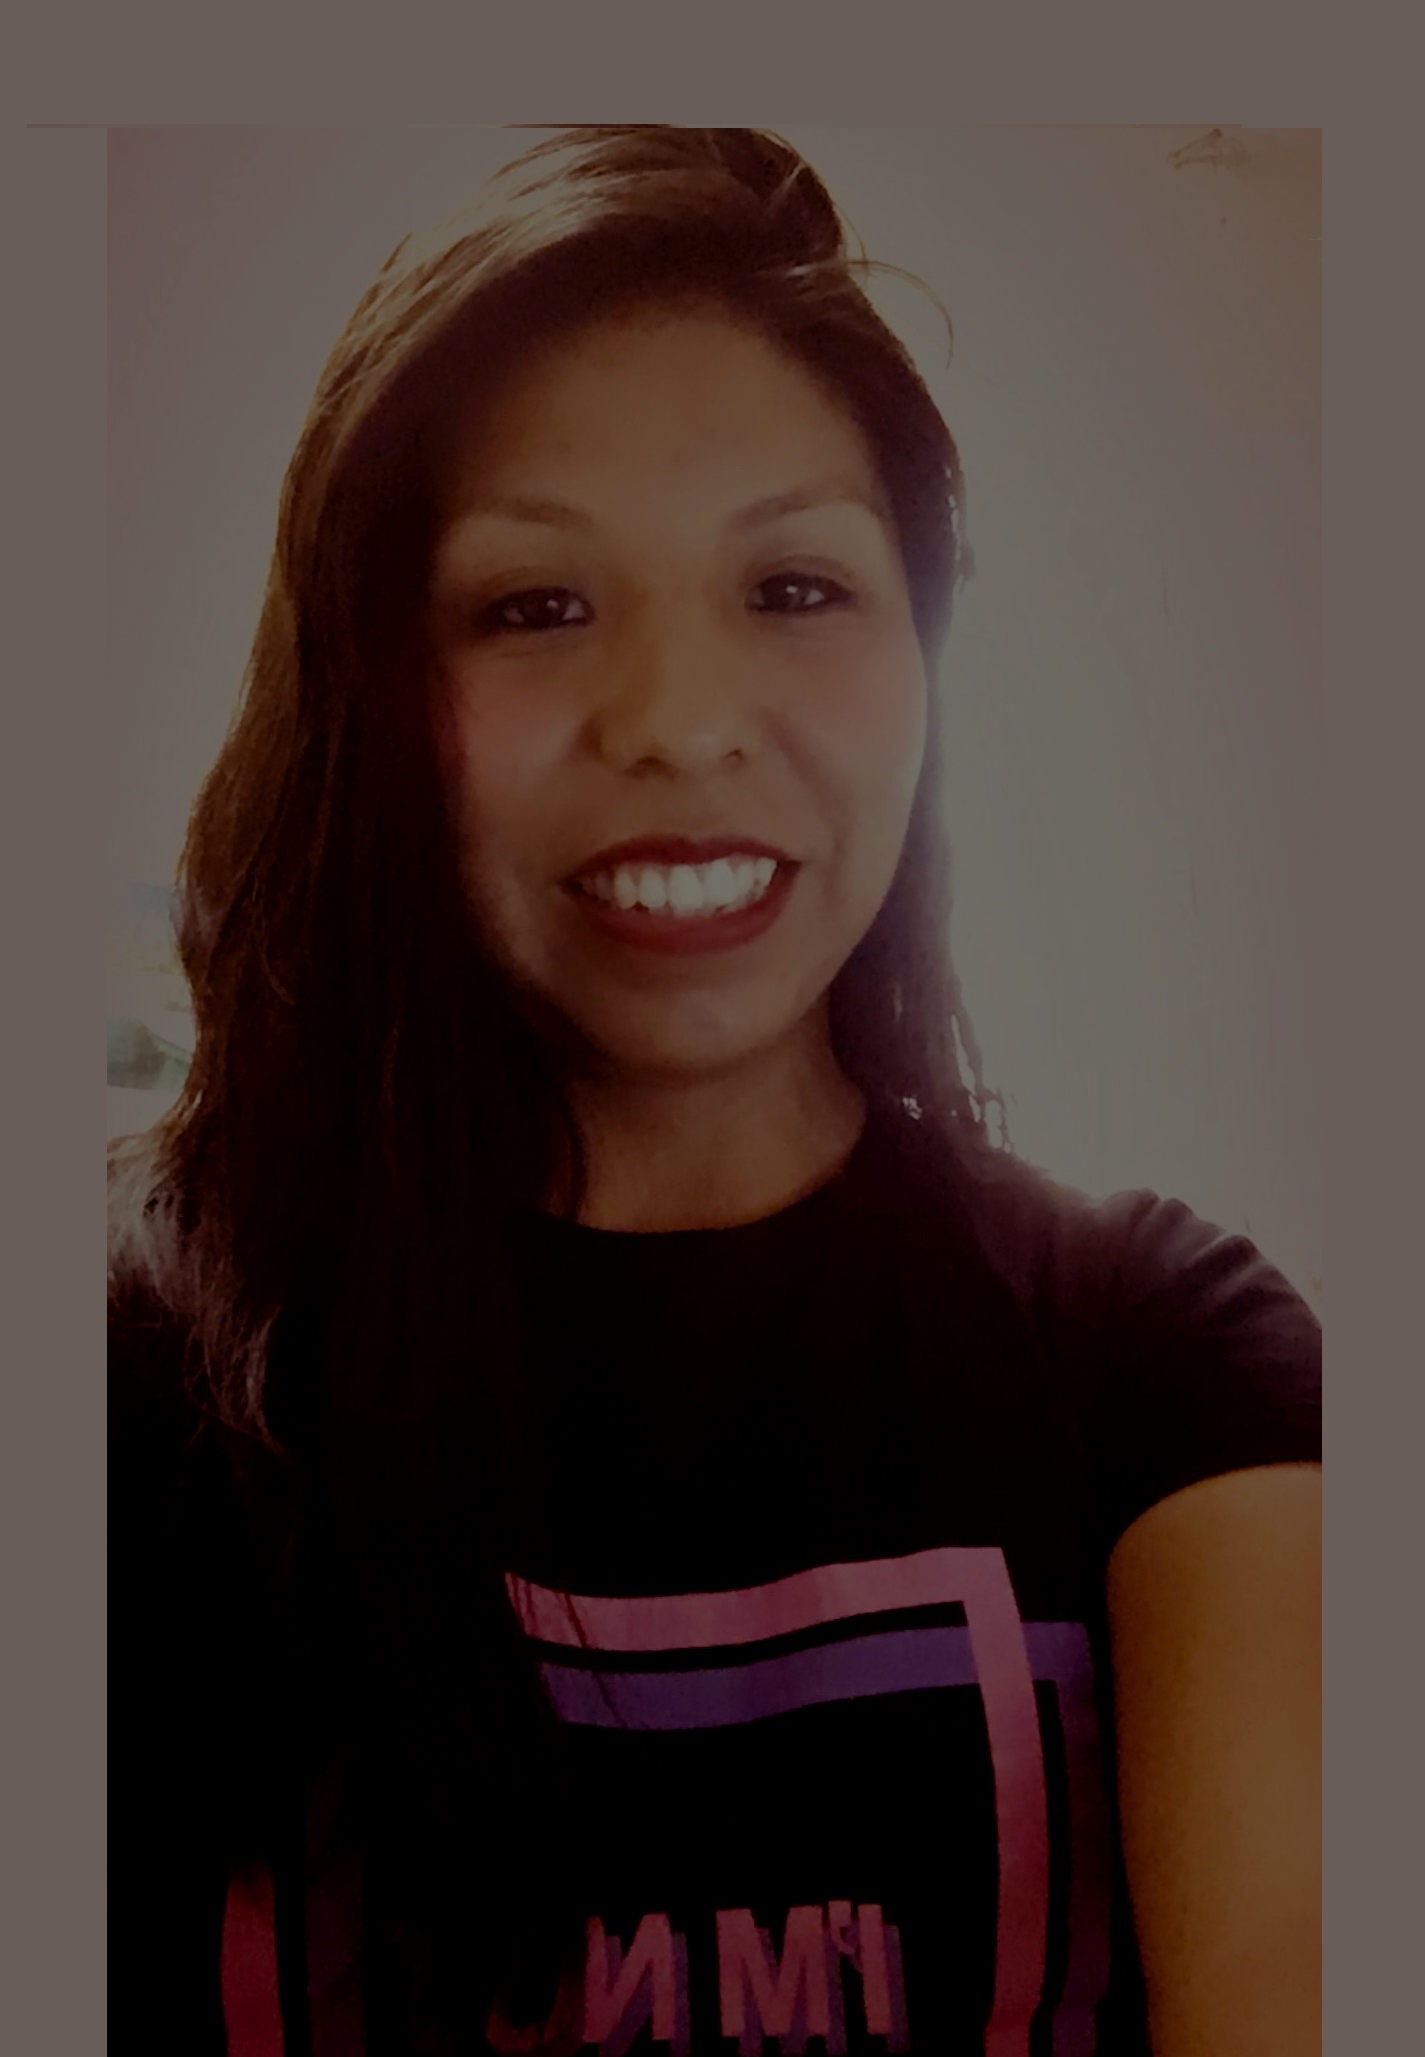
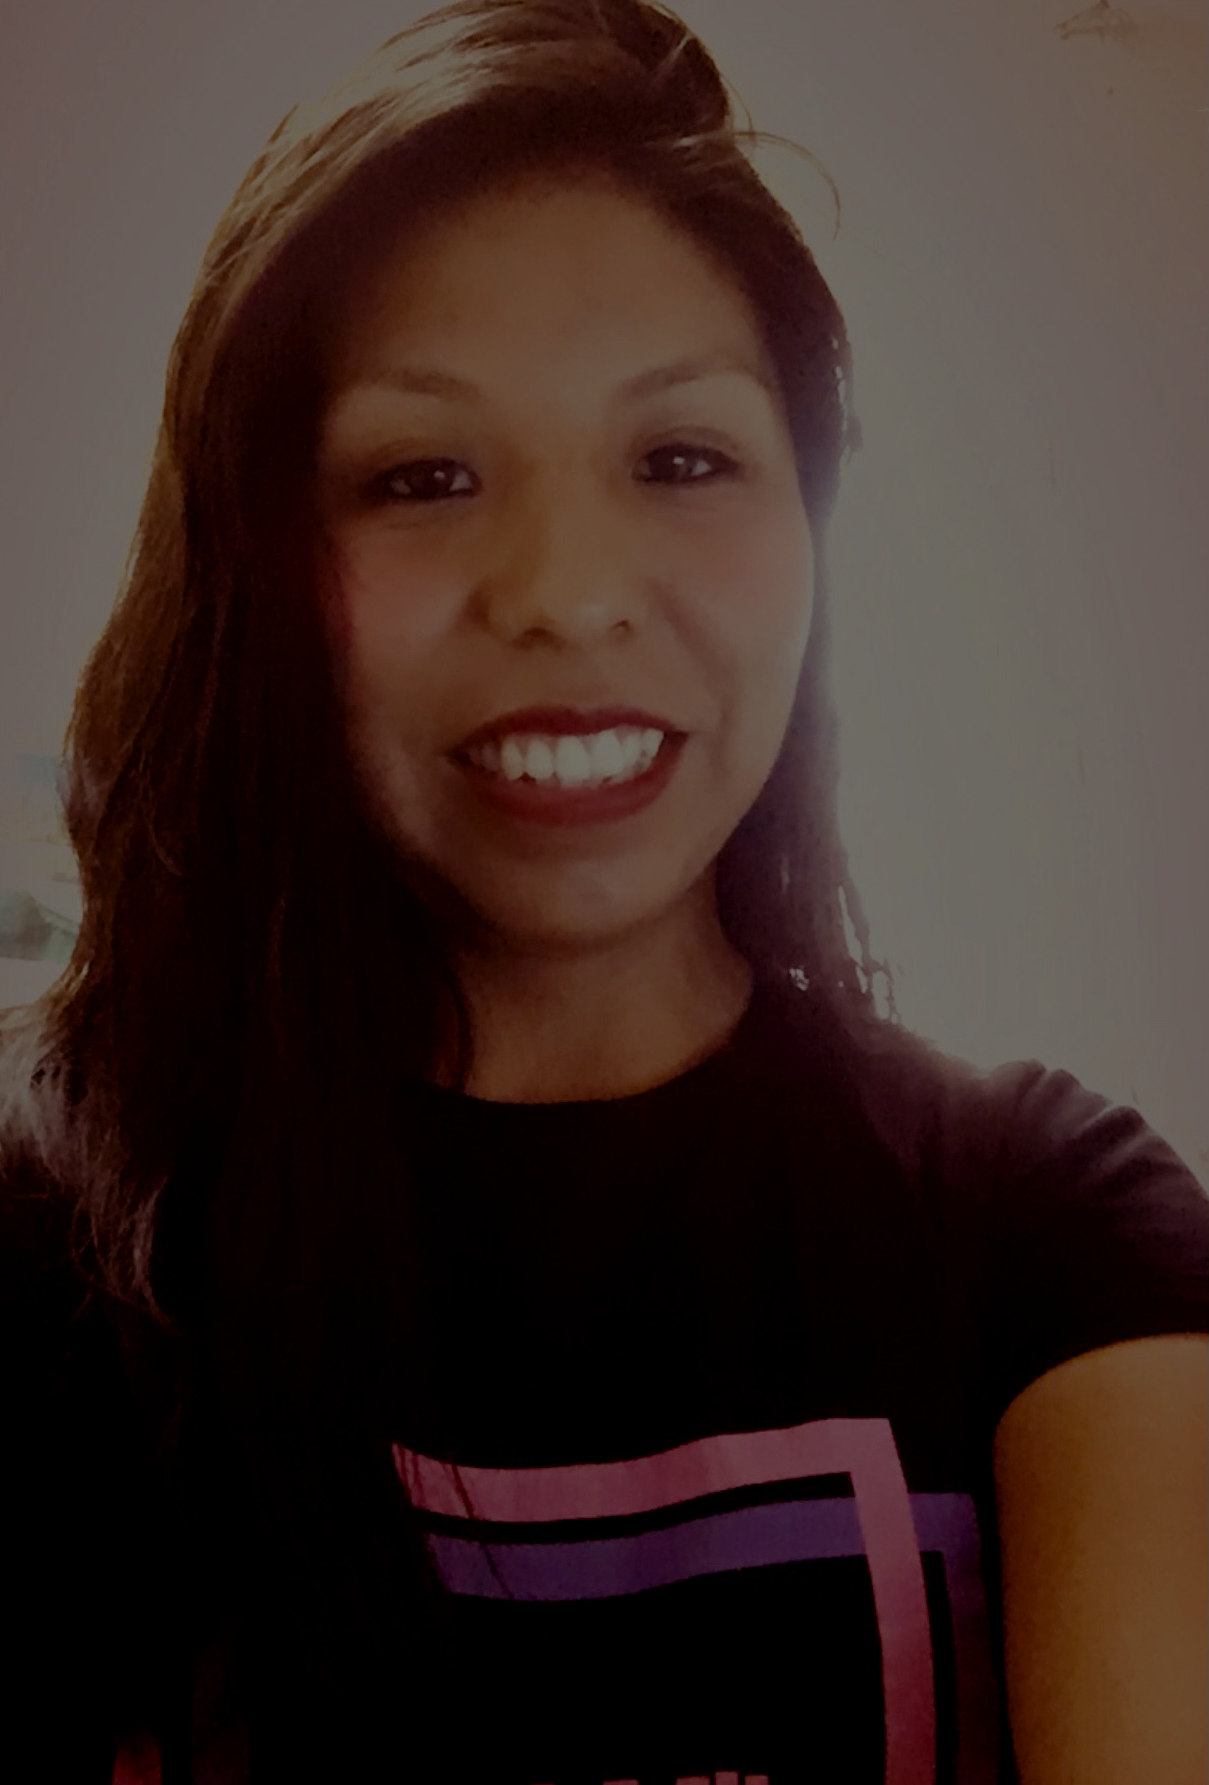
Implementação do estilo no site com CSS puro

diff --git a/index.html b/index.html
@@ -4,9 +4,10 @@
     <meta charset="UTF-8">
     <meta name="viewport" content="width=device-width, initial-scale=1.0">
     <title>Meu Perfil</title>
+    <link rel="stylesheet" href="assets/css/style.css">
 </head>
 <body>
-    <ul>
+    <ul id="menu">
         <li>
             <a href="index.html">Home</a>
         </li>
@@ -14,29 +15,55 @@
             <a href="contato.html">contato</a>
         </li>
     </ul>
-    <h1>Sobre a Claudia</h1>
+    <h1 class="center">Sobre a Claudia</h1>
+    <div class="container">
+        <div>
+            <img class="imagem wh-300 texto" src="assets/img/foto.png" alt="foto de Claudia"> 
+        </div>
         
-    <p>
-        Olá, tudo bem?
-        Eu sou a Claudia e sou uma jovem em busca de aprendizados pelo Mundo. Sou estudante de Tecnologia em Automação Industrial, aprendi muito com área e carrego valiosos valores que adquiri no curso e no Grupo de Robótica, porém, quero ir além e ter novas jornadas...
-    </p>
+        <div class="texto">
+            <p class="justify">
+                Olá, tudo bem?
+                Eu sou a Claudia e sou uma jovem em busca de aprendizados pelo Mundo. Sou estudante de Tecnologia em Automação Industrial, aprendi muito com área e carrego valiosos valores que adquiri no curso e no Grupo de Robótica, porém, quero ir além e ter novas jornadas...
+            </p>
+        
+            <p class="justify">       
+                Uma dessas jornadas me refiro a tecnologia, área, no qual estou há 1 ano, venho obtendo maravilhosas experiências e obtive aprendizados como HTML, CSS, JS, GitHub, Python, Django, lógica de programação e atualmente estou aprendendo Java através da Generation Brasil.
+                De toda essa jornada devo confessar que sigo apaixonada cada dia mais pela tecnologia e possibilidades. Bom, posso dizer que é um mix de áreas que dá super certo!
+            </p>
+        </div>
+        
+    </div>
 
-    <p>       
-        Uma dessas jornadas me refiro a tecnologia, área, no qual estou há 1 ano, venho obtendo maravilhosas experiências e obtive aprendizados como HTML, CSS, JS, GitHub, Python, Django, lógica de programação e atualmente estou aprendendo Java através da Generation Brasil.
-        De toda essa jornada devo confessar que sigo apaixonada cada dia mais pela tecnologia e possibilidades. Bom, posso dizer que é um mix de áreas que dá super certo!
-    </p>
+    <h2 class="center">Minha banda favorita:</h2>
+    <div class="container mb-50">
+        <iframe width="560"
+        height="315" 
+        src="https://www.youtube.com/embed/gOsM-DYAEhY" 
+        frameborder="0" 
+        allow="accelerometer; autoplay; encrypted-media; gyroscope; picture-in-picture" 
+        allowfullscreen
+        ></iframe>
+    </div>
+    <hr>
+    <footer>
+        <div class="container">
+            <a href="https://www.facebook.com/claudia.syapuchura">
+                <img class="tm-social texto" src="assets/img/facebook.png" alt="Logo do Facebook">
+            </a>
 
-    <img src="assets/img/foto.png" alt="foto de Claudia">
+            <a href="https://www.linkedin.com/in/claudia-yapuchura-saire/">
+                <img class="tm-social texto" src="assets/img/linkedin.png" alt="Logo do Linkedin">
+            </a>
 
-    <h2>Minha banda favorita:</h2>
+            <a href="https://www.instagram.com/ys_claudia/">
+                <img class="tm-social texto" src="assets/img/instagram.png" alt="Logo do Instagram">
+            </a>
+        </div>
 
-    <iframe width="560"
-    height="315" 
-    src="https://www.youtube.com/embed/gOsM-DYAEhY" 
-    frameborder="0" 
-    allow="accelerometer; autoplay; encrypted-media; gyroscope; picture-in-picture" 
-    allowfullscreen
-    ></iframe>
-
+        <p class="center">
+            Todos os direitos reservados para: Claudia Yapuchura &copy
+        </p>
+    </footer>
 </body>
 </html>

diff --git a/contato.html b/contato.html
@@ -4,9 +4,10 @@
     <meta charset="UTF-8">
     <meta name="viewport" content="width=device-width, initial-scale=1.0">
     <title>Contato</title>
+    <link rel="stylesheet" href="assets/css/style.css">
 </head>
 <body>
-    <ul>
+    <ul id="menu">
         <li>
             <a href="index.html">Home</a>
         </li>
@@ -15,31 +16,56 @@
         </li>
     </ul>
 
-    <h1>Entre em contato comigo</h1>
+    <h1 class="center">Entre em contato comigo</h1>
 
-    <form>
-        <label for="nome">Nome:</label>
-        <input type="text" id="nome">
-        <br>
-        <br>
-        <label for="email">Email:</label>
-        <input type="email" id="email">
-        <br>
-        <br>
-        <label for="assunto">Assunto:</label>
-        <textarea name="assunto" id="assunto" cols="30" rows="5"></textarea>
-        <br>
-        <br>
-        <button>Enviar</button>
-    </form>
+    <div class="container mb-50">
+        <div>
+            <form>
+                <label for="nome">Nome:</label>
+                <input type="text" id="nome">
+                <br>
+                <br>
+                <label for="email">Email:</label>
+                <input type="email" id="email">
+                <br>
+                <br>
+                <label for="assunto">Assunto:</label>
+                <textarea name="assunto" id="assunto" cols="30" rows="5"></textarea>
+                <br>
+                <br>
+                <button>Enviar</button>
+            </form>
+        </div>
 
-    <h2>Endereço:</h2>
+        <div class="ml-50">
+            <p>Av. Paulista,1374</p>
+            <p>São Paulo - SP</p>
 
-    <p>Av. Paulista,1374</p>
-    <p>São Paulo - SP</p>
+            <iframe src="https://www.google.com/maps/embed?pb=!1m18!1m12!1m3!1d3657.1584119359604!2d-46.656585235022206!3d-23.562753434682197!2m3!1f0!2f0!3f0!3m2!1i1024!2i768!4f13.1!3m3!1m2!1s0x94ce59c8e70065e9%3A0x3212f92921c32582!2sAv.%20Paulista%2C%201374!5e0!3m2!1spt-BR!2sbr!4v1597766300516!5m2!1spt-BR!2sbr" 
+            width="400" height="250" frameborder="0" style="border:0;" 
+            allowfullscreen="" aria-hidden="false" tabindex="0"></iframe>
+        </div>
 
-    <iframe src="https://www.google.com/maps/embed?pb=!1m18!1m12!1m3!1d3657.1584119359604!2d-46.656585235022206!3d-23.562753434682197!2m3!1f0!2f0!3f0!3m2!1i1024!2i768!4f13.1!3m3!1m2!1s0x94ce59c8e70065e9%3A0x3212f92921c32582!2sAv.%20Paulista%2C%201374!5e0!3m2!1spt-BR!2sbr!4v1597766300516!5m2!1spt-BR!2sbr" 
-    width="400" height="250" frameborder="0" style="border:0;" 
-    allowfullscreen="" aria-hidden="false" tabindex="0"></iframe>
+    </div>
+    <hr>
+    <footer>
+        <div class="container">
+            <a href="https://www.facebook.com/claudia.syapuchura">
+                <img class="tm-social texto" src="assets/img/facebook.png" alt="Logo do Facebook">
+            </a>
+
+            <a href="https://www.linkedin.com/in/claudia-yapuchura-saire/">
+                <img class="tm-social texto" src="assets/img/linkedin.png" alt="Logo do Linkedin">
+            </a>
+
+            <a href="https://www.instagram.com/ys_claudia/">
+                <img class="tm-social texto" src="assets/img/instagram.png" alt="Logo do Instagram">
+            </a>
+        </div>
+
+        <p class="center">
+            Todos os direitos reservados para: Claudia Yapuchura &copy
+        </p>
+    </footer>
 </body>
 </html>

diff --git a/assets/css/style.css b/assets/css/style.css
@@ -1,0 +1,64 @@
+/*Estilos da página index.html*/
+.center {
+    text-align: center;
+}
+
+.justify {
+    text-align: justify;
+}
+
+.container {
+    display: flex;
+    flex-flow: row;
+    justify-content: center;
+    align-items: center;
+}
+
+img {
+    width: 50%;
+    height: 50%;
+    align-items: center;
+}
+
+#menu li {
+    display: inline;
+    padding: 20px;
+    text-decoration: none;
+}
+
+#menu li a {
+    font-size: 30px;
+    text-decoration: none;
+    color: brown;
+}
+
+#menu li a:hover {
+    color: grey;
+}
+
+.texto {
+    padding: 30px;
+}
+
+.imagem {
+    border-radius: 60%;
+}
+
+.wh-300 {
+    width: 250px;
+    height: 300px;
+}
+
+.tm-social {
+    width: 40px;
+    height: 40px;
+}
+
+.mb-50 {
+    margin-bottom: 50px;
+}
+
+/*Estilos da página contato.html*/
+.ml-50 {
+    margin-left: 50px;
+}
